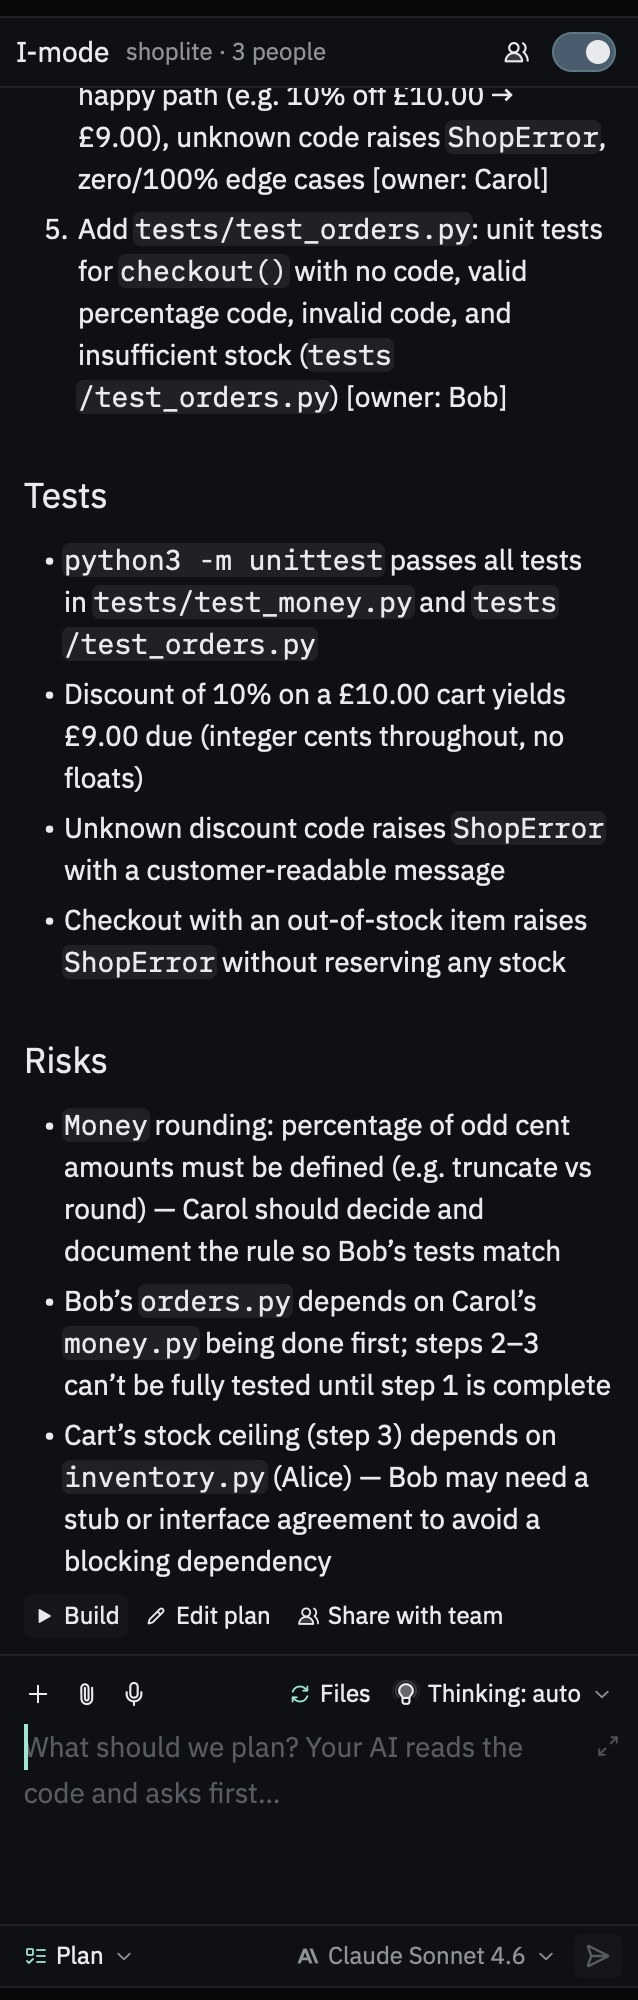
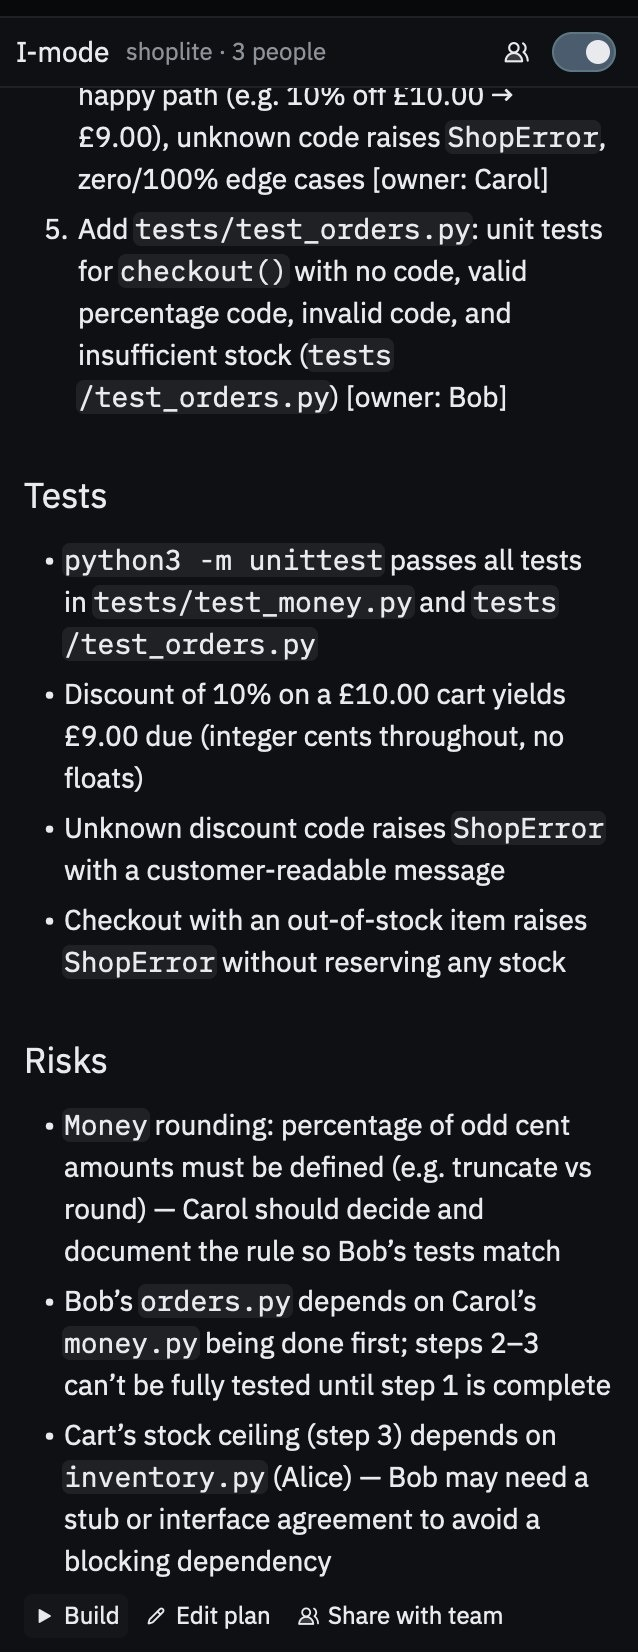
Docs: git is optional, screenshots and wording match the current app
- Git and FAQ pages say syncing, merging and versions are built in.
- FAQ headings read correctly again (a find-and-replace had mangled them).
- Team activity page no longer says open files are edited live.
- Interface and tutorial describe Team activity beside the file folder.
- People menu screenshot re-shot; chat and plan screenshots trimmed to
  drop the Files button that no longer exists.
- Controls lists AI & sharing and Team activity in the people menu.

Changed region(s): [[0.0298, 0.0, 0.9828, 0.9879], [0.0596, 0.0926, 0.0893, 0.1544], [0.9232, 0.957, 0.953, 0.9879]]

diff --git a/site/docs/interface.html b/site/docs/interface.html
@@ -1,10 +1,10 @@
 <article data-page="/docs/interface" data-group="Get started" data-title="The I-IDE interface">
 <h1>The I-IDE interface</h1>
 <p class="lede">The I-IDE window has an editor in the middle, panels on each side, and a status bar along the bottom. This page explains each part.</p>
-<figure><img width="1100" height="752" src="/docs/img/window.jpg" alt="The I-IDE window: files with Team activity below them on the left (Bob editing, tasks with owners), SPEC.md in the middle, and the I-mode chat on the right with a shared plan turned into tasks." loading="lazy"><figcaption>The I-IDE window during a team session.</figcaption></figure>
+<figure><img width="1100" height="690" src="/docs/img/window.jpg" alt="The I-IDE window: the file folder on the left, Team activity beside it with people, tasks and each file's sync state, the editor in the middle, and the I-mode chat on the right." loading="lazy"><figcaption>The I-IDE window during a team session.</figcaption></figure>
 <h2>Main areas</h2>
 <ul>
-  <li><strong>Project Panel:</strong> your project's files and folders, on the left, with <strong>Team activity</strong> below them in a session. Toggle the left side with <kbd>Cmd</kbd>+<kbd>B</kbd>.</li>
+  <li><strong>Project Panel:</strong> your project's files and folders, on the left. In a session, <strong>Team activity</strong> sits beside it as its own panel. Toggle the left side with <kbd>Cmd</kbd>+<kbd>B</kbd>.</li>
   <li><strong>Editor:</strong> where you read and change code. Each open file gets a tab.</li>
   <li><strong>I-mode panel:</strong> sign-in, team sessions, chat and your AI, on the right. Toggle the right side with <kbd>Cmd</kbd>+<kbd>Alt</kbd>+<kbd>B</kbd>.</li>
   <li><strong>Bottom dock:</strong> the terminal and other tools. Toggle it with <kbd>Cmd</kbd>+<kbd>J</kbd>.</li>
@@ -23,12 +23,12 @@
   <li><strong>Chat:</strong> your team's messages and your AI's answers.</li>
   <li><strong>Message box:</strong> the tool row, the box itself, and the mode menu (<strong>Team</strong>, <strong>Ask</strong>, <strong>Plan</strong>, <strong>Agent</strong>) with the model and send button.</li>
 </ol>
+<figure class="small"><img width="319" height="826" src="/docs/img/team-chat.jpg" alt="The I-mode panel: the end of a plan, then the task plan the session made from it, listing each person's tasks." loading="lazy"><figcaption>The I-mode chat after a plan was shared.</figcaption></figure>
 <h2>Team activity</h2>
-<figure class="small"><img width="319" height="1000" src="/docs/img/team-chat.jpg" alt="The I-mode panel: the end of a plan, then the task plan the session made from it, listing each person's tasks, above the message box." loading="lazy"><figcaption>The I-mode panel after a plan was shared.</figcaption></figure>
-<p>The <strong>Team activity</strong> panel sits beside your files. It shows who's here and which file each person is editing, with a colored status: amber for editing, blue for an agent running, grey for idle. Below that are the tasks and the latest changes.</p>
+<p>The <strong>Team activity</strong> panel sits beside your files. It shows who's here and which file each person is editing, with a colored status: amber for editing, blue for an agent running, grey for idle. Below that are the tasks, and every file with its sync state. See <a href="/docs/team-tab">Team activity</a>.</p>
 <h2>The people menu</h2>
-<p>Select the people icon next to the I-mode switch to invite people, share files or your running app, and leave a session. If you're not in a session, it's where you create or join one.</p>
-<figure class="small"><img width="380" height="320" src="/docs/img/people-menu.jpg" alt="The people menu: AI & sharing, Invite by email, Share files, Share running app, Copy invite link, Leave session and Log out." loading="lazy"><figcaption>The people menu, as a session owner sees it.</figcaption></figure>
+<p>Select the people icon next to the I-mode switch to choose how your AIs work and share, open Team activity, invite people, share files or your running app, and leave a session. If you're not in a session, it's where you create or join one.</p>
+<figure class="small"><img width="320" height="335" src="/docs/img/people-menu.jpg" alt="The people menu: AI &amp; sharing, Team activity, Invite by email, Share files, Share running app, Team agent follows the chat, Link GitHub repo, Copy invite link, Leave session and Log out." loading="lazy"><figcaption>The people menu, as a session owner sees it.</figcaption></figure>
 <h2>The Command Palette</h2>
 <p>Press <kbd>Cmd</kbd>+<kbd>Shift</kbd>+<kbd>P</kbd> and start typing what you want to do. The palette lists matching commands with their shortcuts, which makes it the fastest way to learn the app.</p>
 <h2>Next steps</h2>

diff --git a/site/docs/tutorial.html b/site/docs/tutorial.html
@@ -41,7 +41,7 @@
   <li>Say what you're building and who is good at what. For example: "I know the storage code, so I'll take that. Can you do the form and tests?"</li>
   <li>Press <kbd>Return</kbd> to send. Your teammate sees the message right away.</li>
 </ol>
-<figure class="small"><img width="319" height="1000" src="/docs/img/plan-mode.jpg" alt="The I-mode panel in Plan mode: the end of a plan with steps that name owners, tests and risks, then Build, Edit plan and Share with team buttons, and the mode menu set to Plan." loading="lazy"><figcaption>A plan in Plan mode, ready to build or share.</figcaption></figure>
+<figure class="small"><img width="319" height="826" src="/docs/img/plan-mode.jpg" alt="The I-mode panel in Plan mode: the end of a plan with steps that name owners, tests and risks, then Build, Edit plan and Share with team buttons." loading="lazy"><figcaption>A plan in Plan mode, ready to build or share.</figcaption></figure>
 <h2>5. Plan the work</h2>
 <ol>
   <li>Choose <strong>Plan</strong> in the mode menu and describe the work, for example "Plan reminders for tasks".</li>
@@ -65,10 +65,10 @@
 </ol>
 <p>To check changes before they go out, choose <strong>Manual</strong> instead and press sync on a file when it's ready. See <a href="/docs/live-editing">Syncing and merging</a>.</p>
 <h2>8. Review the session</h2>
-<p>Open <strong>Team activity</strong> to see who is here and what they're doing, the conflicts caught this week, what changed this session, and which files are syncing.</p>
-<figure class="small"><img width="299" height="709" src="/docs/img/team-activity.jpg" alt="Team activity: Bob editing README.md, Carol idle, and tasks from the shared plan with their owners." loading="lazy"><figcaption>Team activity.</figcaption></figure>
+<p>Open <strong>Team activity</strong> to see who is here and what they're doing, the tasks, and where every file stands: in sync, not sent, to review or in conflict.</p>
+<figure class="small"><img width="274" height="488" src="/docs/img/team-activity.jpg" alt="Team activity: Bob under People, then Files with the sync switch and four files marked conflict, to review, not sent and in sync." loading="lazy"><figcaption>Team activity.</figcaption></figure>
 <h2>9. Finish up</h2>
-<p>Commit your work with Git as usual. I-IDE doesn't replace Git. When you're done, select the people icon, then <strong>Leave session</strong>.</p>
+<p>Your synced files and their versions stay with the session, so there's nothing you have to commit. If your project uses Git, commit as usual. When you're done, select the people icon, then <strong>Leave session</strong>.</p>
 <h2>Next steps</h2>
 <ul>
   <li><a href="/docs/previews">Show teammates your running app</a></li>

diff --git a/site/docs/faq.html b/site/docs/faq.html
@@ -1,17 +1,17 @@
 <article data-page="/docs/faq" data-group="Reference" data-title="FAQ">
 <h1>FAQ</h1>
-<h2>Do I-IDE have to use a team session?</h2>
+<h2>Do I have to use a team session?</h2>
 <p>No. In solo mode, I-IDE is a normal editor with an AI beside you, and nothing is shared with a team.</p>
-<h2>Can I-IDE use my own API key?</h2>
+<h2>Can I use my own API key?</h2>
 <p>Yes. <strong>My AI</strong> and the Agent Panel use your own key. See <a href="/docs/ai-setup">Set up your AI</a>.</p>
 <h2>Can two agents work in one file?</h2>
 <p>Yes, as long as they stay in different functions. See <a href="/docs/claims">Function claims</a>.</p>
-<h2>Does I-IDE replace Git?</h2>
-<p>No. Sessions share live work, and you still commit and push with <a href="/docs/git">Git</a>.</p>
+<h2>Do I need Git?</h2>
+<p>Not to work together. Syncing, merging and file versions are built in; see <a href="/docs/live-editing">Syncing and merging</a>. <a href="/docs/git">Git</a> keeps working if your project uses it, and it's still how you publish code outside a session.</p>
 <h2>Is my code stored on your server?</h2>
 <p>Code you sync in a session is. See <a href="/docs/security">Security and data</a>.</p>
-<h2>Can I-IDE work with VS Code or Cursor shortcuts?</h2>
+<h2>Can I use VS Code or Cursor shortcuts?</h2>
 <p>Yes. Choose them as your <strong>Base Keymap</strong> on the welcome page or in settings.</p>
-<h2>How do I-IDE get I-IDE?</h2>
+<h2>How do I get I-IDE?</h2>
 <p>I-IDE is in private development. <a href="/download">Join the waitlist</a> for access.</p>
 </article>

diff --git a/site/docs/git.html b/site/docs/git.html
@@ -1,6 +1,6 @@
 <article data-page="/docs/git" data-group="Use the editor" data-title="Git">
 <h1>Git</h1>
-<p class="lede">I-IDE works with your existing Git repositories. Sessions don't replace Git, so you still commit and push as you normally would.</p>
+<p class="lede">Git is optional in I-IDE. A session syncs, merges and keeps file versions by itself, so a team can work together without it. If your project is a Git repository, everything here works as usual.</p>
 <h2>Open the Git panel</h2>
 <p>Press <kbd>Ctrl</kbd>+<kbd>Shift</kbd>+<kbd>G</kbd>. The panel lists changed files and lets you stage and commit them.</p>
 <h2>Commit a change</h2>
@@ -8,5 +8,5 @@
 <h2>See who changed a line</h2>
 <p>Press <kbd>Cmd</kbd>+<kbd>Alt</kbd>+<kbd>G</kbd> then <kbd>B</kbd> to turn on Git blame for the current file.</p>
 <h2>Git and team sessions</h2>
-<p>A session shares live edits between people, which is separate from your commit history. Agree who commits what. A <a href="/docs/tasks">task board</a> with one owner per task makes this easier.</p>
+<p>A session keeps its own versions of every synced file, separate from your commit history; see <a href="/docs/live-editing">Syncing and merging</a>. If you also commit, agree who commits what. A <a href="/docs/tasks">task board</a> with one owner per task makes this easier.</p>
 </article>

diff --git a/site/docs/controls.html b/site/docs/controls.html
@@ -3,9 +3,11 @@
 <p class="lede">A quick reference for the I-mode panel and team chat.</p>
 <h2>People menu</h2>
 <table><thead><tr><th>Item</th><th>What it does</th><th>Who sees it</th></tr></thead><tbody>
+  <tr><td>AI &amp; sharing…</td><td>Chooses whether your AIs work together and what they share.</td><td>Everyone</td></tr>
   <tr><td>Sign in</td><td>Opens the sign-in page.</td><td>Signed out</td></tr>
   <tr><td>New session…</td><td>Creates a session you own.</td><td>Not in a session</td></tr>
   <tr><td>Join session…</td><td>Asks to join using an invite link.</td><td>Not in a session</td></tr>
+  <tr><td>Team activity</td><td>Shows or hides the Team activity panel.</td><td>In a session</td></tr>
   <tr><td>Invite by email…</td><td>Emails someone an invite.</td><td>In a session</td></tr>
   <tr><td>Share files…</td><td>Sends files teammates don't have.</td><td>In a session</td></tr>
   <tr><td>Share running app…</td><td>Shares an app on your localhost.</td><td>In a session</td></tr>

diff --git a/site/docs/team-tab.html b/site/docs/team-tab.html
@@ -10,7 +10,7 @@
 <h2>Sync: Auto or Manual</h2>
 <p>The switch at the top of <strong>Files</strong> decides how files move. You can change it at any time.</p>
 <table><thead><tr><th>Mode</th><th>What happens</th></tr></thead><tbody>
-  <tr><td><strong>Auto</strong></td><td>Your saves go to the team, and teammates' changes arrive on their own and merge with your work. Open files are edited live. Every AI sees changes right away.</td></tr>
+  <tr><td><strong>Auto</strong></td><td>Your saves go to the team, and teammates' changes arrive on their own and merge with your work. Every AI sees a change as soon as it's saved.</td></tr>
   <tr><td><strong>Manual</strong></td><td>Nothing leaves your machine until you press the sync button on a file, or <strong>Sync all</strong>. Teammates' changes wait for you. Their AIs wait for what you haven't sent.</td></tr>
 </tbody></table>
 <p>The gear next to the switch holds the finer choices: what teammates see of your AI's work, private paths, and a pause.</p>
